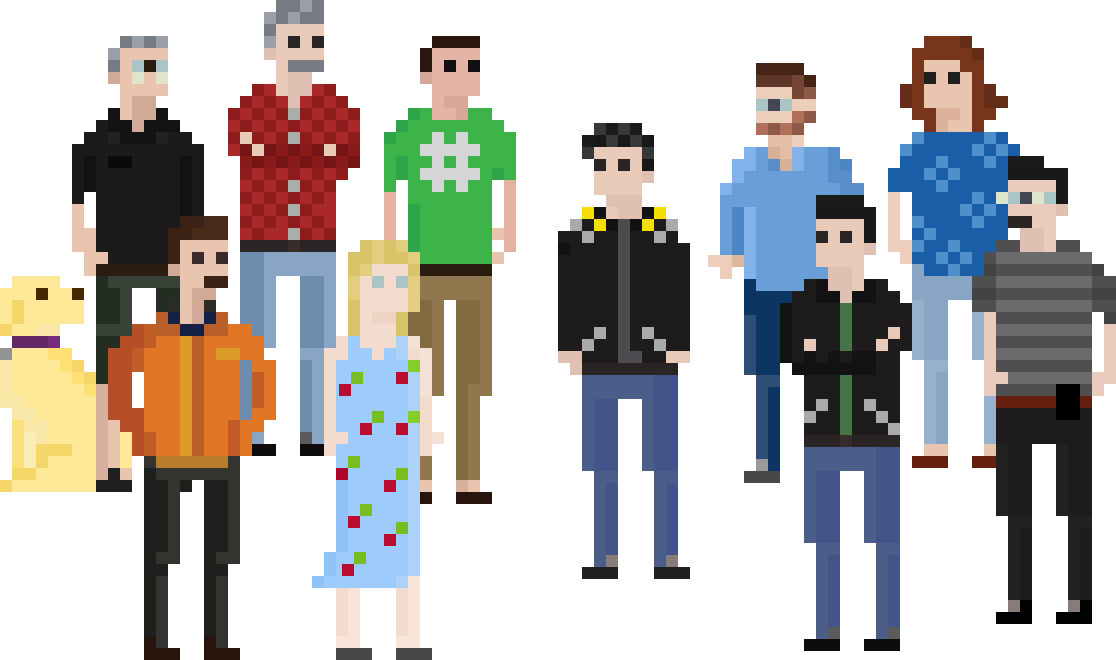
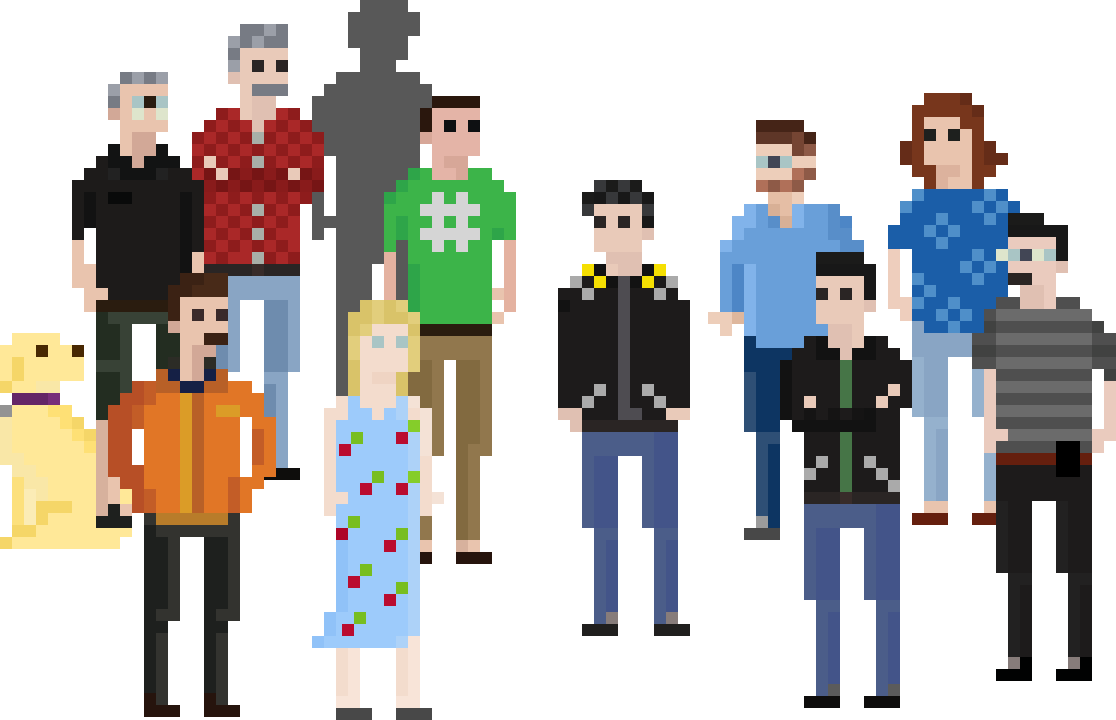
grayscale spruce

diff --git a/team/index.html b/team/index.html
@@ -4,7 +4,7 @@ title: Team
 breadcrumb: <li><a href="/team">Team</a></li>
 description: Two Client Supporters under the sky, <br>
               Two System Administrators in their cubicles of stone, <br>
-              Five website developers doomed to code, <br>
+              Six website developers doomed to code, <br>
               One Director to rule them all, One Director to find them, <br>
               One Director to bring them all and in the basement bind them <br>
               In the Land of Mrak where the Agriculture shines.

diff --git a/collections/_team/spruce.md b/collections/_team/spruce.md
@@ -1,0 +1,9 @@
+---
+name: Spruce Weber-Milne
+email: swebermilne@ucdavis.edu
+role: Applications Developer
+image: /media/team/spruce_pic
+categories:
+  - webdev
+  - current
+---
